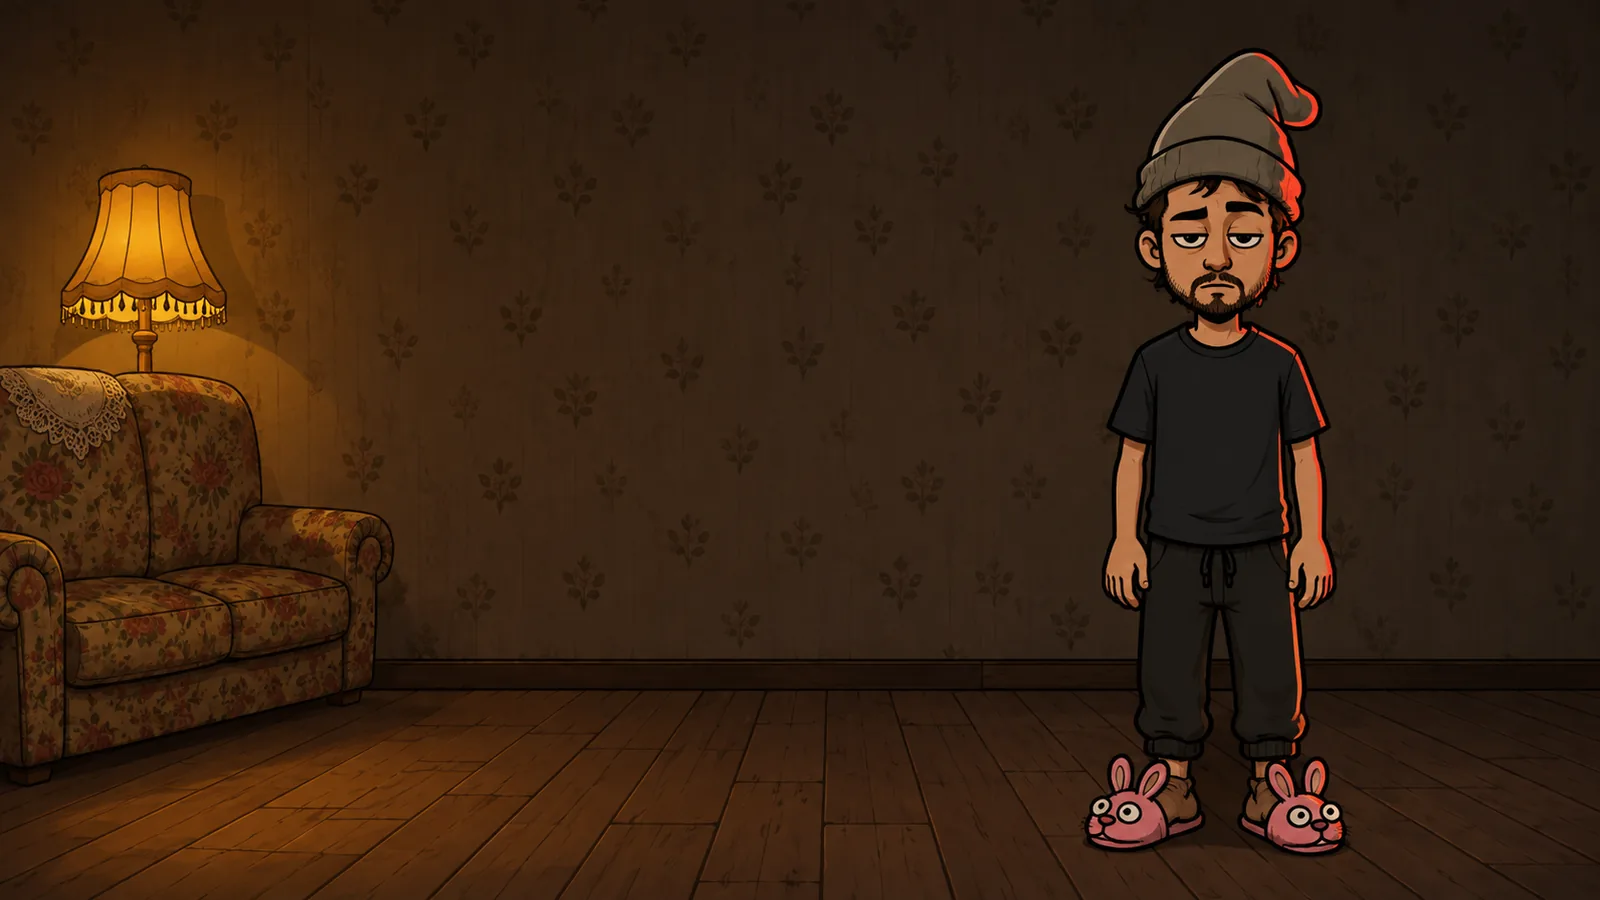
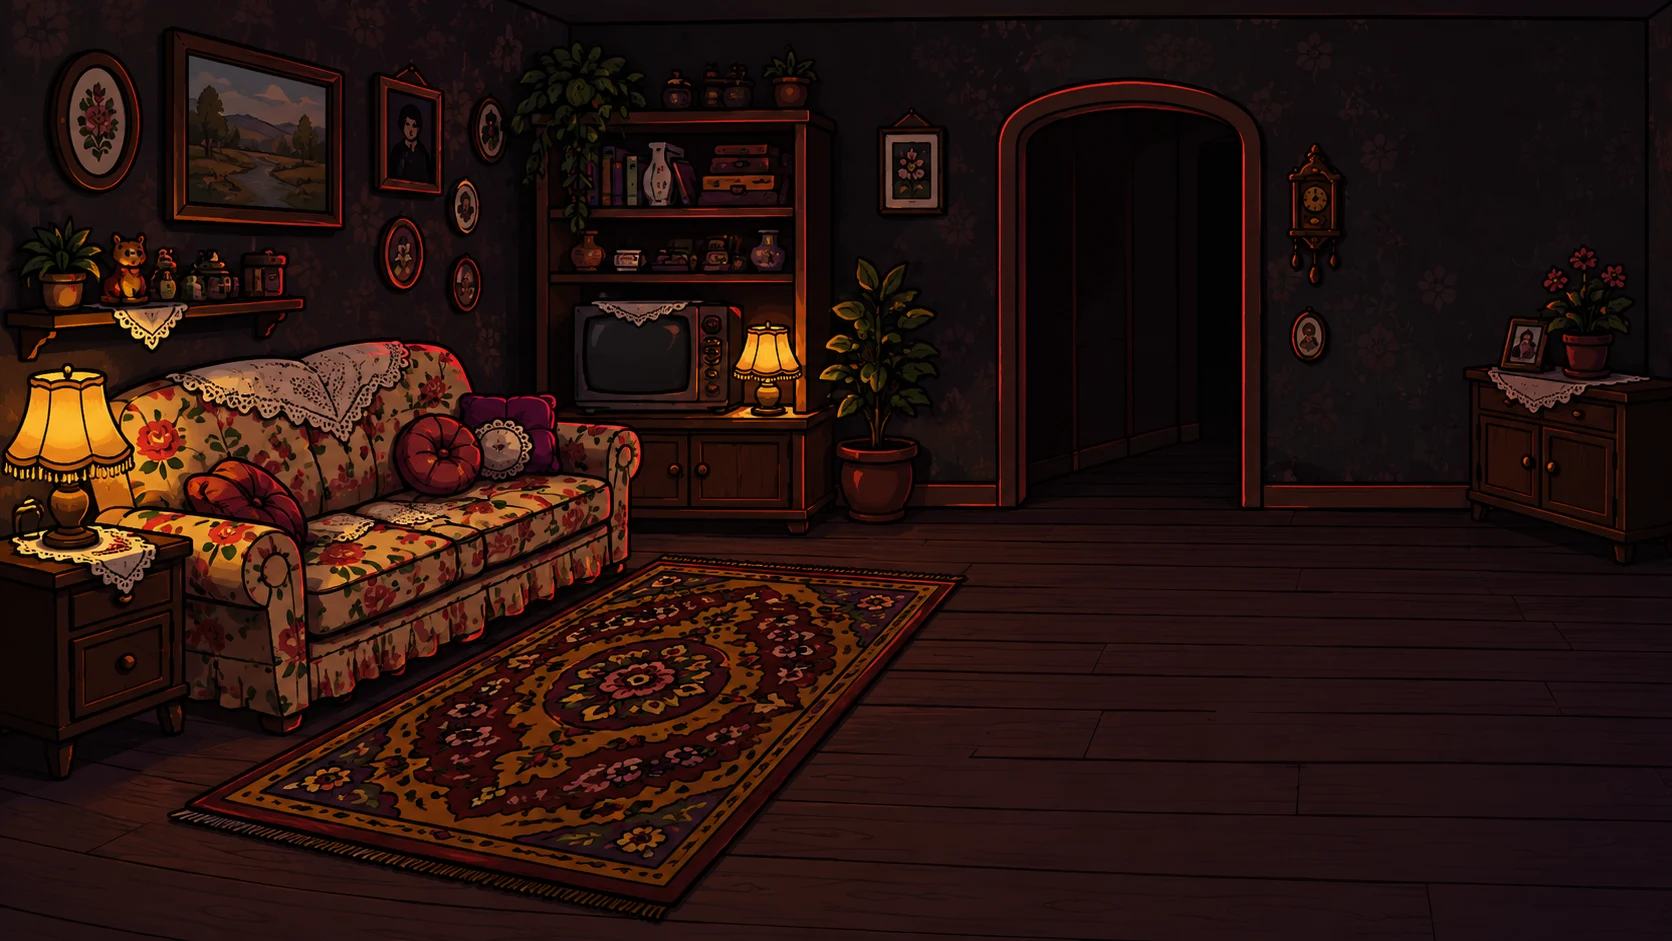
Add clean bunker/couch backgrounds, free map building placement, no-store API cache
- room-1-couch.webp and room-6-bunker.webp replaced with clean (no baked-in
  character) versions per the v2 rework, and bunker now has a roomImg
  (previously had none, so its room screen fell back to the square location
  icon). Character now composites via the shared transparent layer added
  in the previous commit.
- Map territory buildings can now be freely positioned by the player: new
  POST /api/map/place (per-building-type {x,y}%, visual only — economic
  effect still comes from mapBuildings level, not position), wired through
  createFreshUser, /api/user, /api/restore (dedicated validation block since
  {x,y} objects don't fit the generic RESTORE_MAP_FIELDS number/bool-only
  loop), and saveToCloud(). Client: "📍 Розмістити на карті" button per
  built structure enters a tap-to-place mode on the map image, renders
  markers via background-image (avoids colliding with the existing
  ".map-img-wrap img" full-width rule used for the map background itself).
- Added `Cache-Control: no-store` to all /api/* responses — investigating a
  report that a player's set nickname wasn't showing in the leaderboard,
  suspected stale GET caching in Telegram's embedded WebView since server
  logic (displayName()) was already verified correct.

diff --git a/server.js b/server.js
@@ -37,6 +37,10 @@ const app = express();
 app.use(compression()); // HTML сторінки ~370КБ без стиснення — gzip ріже це до ~85КБ
 app.use(express.json());
 app.use('/images', express.static(path.join(__dirname, 'public/images')));
+// API завжди повертає живі дані (баланс/лідерборд/нік і т.д.) — без цього Telegram
+// WebView міг закешувати GET-відповідь (напр. лідерборд) і показувати застарілий
+// нік/цифри навіть після того, як гравець щось змінив.
+app.use('/api', (req, res, next) => { res.set('Cache-Control', 'no-store, no-cache, must-revalidate'); next(); });
 
 let BOT_USERNAME = 'YourBot';
 let HTML_CONTENT = ''; // формується після старту (щоб зашити username бота в реферальні посилання)
@@ -990,7 +994,7 @@ const LOCATIONS = [
     { level: 3, name: 'Балканська хатинка', img: '/images/location-3-balkan.webp', roomImg: '/images/room-3-balkan.webp', maxEnergy: 220 },
     { level: 4, name: 'Човен на Тисі', img: '/images/location-3-boat.webp', maxEnergy: 300 },
     { level: 5, name: 'Закордон (Гуманітарний коридор)', emoji: '🛂', img: '/images/location-5-abroad.webp', roomImg: '/images/room-5-abroad.webp', maxEnergy: 400 },
-    { level: 6, name: 'Президентський бункер', emoji: '🏛', img: '/images/location-6-bunker.webp', maxEnergy: 500 },
+    { level: 6, name: 'Президентський бункер', emoji: '🏛', img: '/images/location-6-bunker.webp', roomImg: '/images/room-6-bunker.webp', maxEnergy: 500 },
 ];
 
 // Компаньйони — пасивні мультиплікатори, екіпірується один одночасно.
@@ -1430,6 +1434,7 @@ function createFreshUser(id, name) {
         adConsent: null,            // null — ще не питали, true/false — відповів
         redeemedPromos: [],         // одноразові промокоди (once:true), щоб не активувати вдруге
         mapBuildings: { tower: 0, hideout: 0, cache: 0 }, // карта території: рівень 0 = не збудовано
+        mapPlacements: { tower: null, hideout: null, cache: null }, // {x,y} у % — де гравець поставив іконку на карті (null = ще не розміщено)
         trophies: [],               // 🕵 за розкритого стукача + по одному за кожного боса
         // --- Медкомісія та інспектори ---
         medcomSession: null,        // { noticeId, cards, rerolls } — активна роздача карток
@@ -2795,6 +2800,7 @@ app.get('/api/user', requireTelegramAuth, (req, res) => {
         investigationPending: (user.snitchedBy || []).some((e) => !e.investigated),
         trophies: user.trophies || [],
         mapBuildings: user.mapBuildings,
+        mapPlacements: user.mapPlacements || { tower: null, hideout: null, cache: null },
         nickname: user.nickname,
         nextStep: nextStep(user),
         medcomStats: user.medcomStats,
@@ -2986,6 +2992,18 @@ app.post('/api/restore', requireTelegramAuth, (req, res) => {
     if (typeof backup.nickname === 'string' && backup.nickname && !user.nickname) {
         const candidate = backup.nickname.trim();
         if (!validateNickname(candidate, user.id)) user.nickname = candidate;
+    }
+    // Позиції іконок на карті — {x,y} об'єкти, не число/bool, тому окремо від
+    // RESTORE_MAP_FIELDS, і лише за відомими ключами будівель.
+    if (backup.mapPlacements && typeof backup.mapPlacements === 'object') {
+        if (!user.mapPlacements) user.mapPlacements = { tower: null, hideout: null, cache: null };
+        for (const key of Object.keys(user.mapPlacements)) {
+            const p = backup.mapPlacements[key];
+            if (p && typeof p === 'object' && typeof p.x === 'number' && typeof p.y === 'number'
+                && p.x >= 0 && p.x <= 100 && p.y >= 0 && p.y <= 100) {
+                user.mapPlacements[key] = { x: p.x, y: p.y };
+            }
+        }
     }
 
     // Чати ОСББ живуть лише на диску Render, а він не переживає редеплой: гравець
@@ -3550,6 +3568,25 @@ app.post('/api/map/build', requireTelegramAuth, (req, res) => {
         buildingId: building.id, mapBuildings: user.mapBuildings,
         ...storageSnapshot(user),
     });
+});
+
+// Вільне розміщення іконки збудованої споруди на фоні карти — суто візуальне
+// (не впливає на ефекти, ті йдуть від рівня в mapBuildings). Одна позиція на
+// тип будівлі, гравець може перетягнути/переставити будь-коли безкоштовно.
+app.post('/api/map/place', requireTelegramAuth, (req, res) => {
+    const user = getUser(req.telegramUser.id, req.telegramUser.first_name);
+    const building = MAP_BUILDING_BY_ID[req.body.buildingId];
+    if (!building) return res.status(400).json({ error: 'Невідома будівля' });
+    if (!mapBuildingLevel(user, building.id)) {
+        return res.json({ success: false, message: 'Спочатку побудуй споруду' });
+    }
+    const x = Number(req.body.x), y = Number(req.body.y);
+    if (!Number.isFinite(x) || !Number.isFinite(y) || x < 0 || x > 100 || y < 0 || y > 100) {
+        return res.status(400).json({ error: 'Невірні координати' });
+    }
+    if (!user.mapPlacements) user.mapPlacements = { tower: null, hideout: null, cache: null };
+    user.mapPlacements[building.id] = { x, y };
+    res.json({ success: true, mapPlacements: user.mapPlacements });
 });
 
 // ---- Багаторівневі апгрейди магазину (ціна росте з кожним рівнем) ----
@@ -5408,6 +5445,10 @@ function buildHtml(botUsername) {
         .map-img-wrap { position: relative; width: 100%; border-radius: 12px; overflow: hidden; margin-bottom: 14px; }
         .map-img-wrap img { width: 100%; display: block; }
         .map-hotspot { position: absolute; width: auto; margin-bottom: 0; transform: translate(-50%, -50%); background: rgba(10,8,5,0.7); border: 1px solid var(--gold); border-radius: 8px; padding: 4px 8px; font-size: 11px; color: #fff; cursor: pointer; white-space: nowrap; }
+        /* Іконки поставлених гравцем споруд — background-image, не <img>, щоб не
+           зачепити правило ".map-img-wrap img { width:100% }" вище (те для фону карти). */
+        .map-marker { position: absolute; width: 13%; aspect-ratio: 1; transform: translate(-50%, -50%); background-size: contain; background-repeat: no-repeat; background-position: center; filter: drop-shadow(0 2px 5px rgba(0,0,0,0.7)); z-index: 4; }
+        .map-img-wrap.placing { cursor: crosshair; outline: 2px dashed var(--gold); outline-offset: 2px; }
         .defer-card { background: rgba(255,255,255,0.04); border: 1px solid #3a2f22; border-radius: 10px; padding: 11px 12px; margin-bottom: 9px; }
         .defer-card.locked { opacity: 0.55; }
         .defer-head { display: flex; align-items: center; gap: 9px; }
@@ -6277,13 +6318,15 @@ function buildHtml(botUsername) {
                 Орієнтири на карті ведуть до вилазок. Будуй споруди за деревину/металобрухт/цеглу —
                 вони реально знижують ризики.
             </p>
-            <div class="map-img-wrap">
+            <div id="map-place-hint" class="hidden" style="text-align:center; font-size:12px; color:var(--gold); margin-bottom:8px;">📍 Тапни по карті, щоб поставити споруду</div>
+            <div class="map-img-wrap" id="map-img-wrap" onclick="onMapImgClick(event)">
                 <img src="/images/map-city-bg.webp" alt="">
                 <button class="map-hotspot" style="top:28%; left:60%;" onclick="jumpToExpedition('market')">🏪 Ринок</button>
                 <button class="map-hotspot" style="top:45%; left:20%;" onclick="jumpToExpedition('warehouse')">🏭 Склад</button>
                 <button class="map-hotspot" style="top:72%; left:30%;" onclick="jumpToExpedition('ruins')">🪚 Руїни</button>
                 <button class="map-hotspot" style="top:55%; left:85%;" onclick="jumpToExpedition('tcc_office')">🏢 ТЦК</button>
                 <button class="map-hotspot" style="top:92%; left:45%;" onclick="jumpToExpedition('border')">🌲 Кордон</button>
+                <div id="map-markers"></div>
             </div>
             <div id="map-buildings-list"></div>
         </div>
@@ -6513,6 +6556,7 @@ function buildHtml(botUsername) {
             expeditions: [], expeditionSlots: 1, skills: {}, skillPoints: 0,
             reputation: {}, mykolaCoverUsed: false, buyAmount: 1,
             mapBuildings: { tower: 0, hideout: 0, cache: 0 },
+            mapPlacements: { tower: null, hideout: null, cache: null },
             league: null, seasonTitle: null, seasonEndsAt: 0, pendingWarCrate: 0,
             adAirdropMult: 1, adConsentCount: 0,
         };
@@ -8069,6 +8113,7 @@ function buildHtml(botUsername) {
                 inspectorStats: state.inspectorStats, pendingWarCrate: state.pendingWarCrate,
                 league: state.league ? state.league.id : 0, seasonTitle: state.seasonTitle,
                 mapBuildings: state.mapBuildings,
+                mapPlacements: state.mapPlacements,
                 upgTiersUnlocked: state.upgTiersUnlocked,
                 nickname: state.nickname,
             };
@@ -8165,6 +8210,7 @@ function buildHtml(botUsername) {
                 state.investigationPending = !!data.investigationPending;
                 state.trophies = data.trophies || [];
                 state.mapBuildings = data.mapBuildings || { tower: 0, hideout: 0, cache: 0 };
+                state.mapPlacements = data.mapPlacements || { tower: null, hideout: null, cache: null };
                 state.nickname = data.nickname || null;
                 document.getElementById('username').innerText = state.nickname || user.first_name;
                 if (data.nextStep) renderNextStep(data.nextStep);
@@ -8594,10 +8640,54 @@ function buildHtml(botUsername) {
         window.openMap = () => {
             document.getElementById('map-screen').classList.remove('hidden');
             renderMapBuildings();
+            renderMapMarkers();
         };
         window.closeMap = () => {
             document.getElementById('map-screen').classList.add('hidden');
+            placingBuildingId = null;
+            document.getElementById('map-img-wrap').classList.remove('placing');
+            document.getElementById('map-place-hint').classList.add('hidden');
         };
+
+        // Вільне розміщення: гравець сам обирає, де на карті стоїть іконка вже
+        // збудованої споруди. Одна позиція на тип будівлі, суто візуально — ефекти
+        // йдуть від рівня в mapBuildings, не від координат.
+        let placingBuildingId = null;
+        window.startPlacingBuilding = (buildingId) => {
+            placingBuildingId = buildingId;
+            document.getElementById('map-img-wrap').classList.add('placing');
+            document.getElementById('map-place-hint').classList.remove('hidden');
+        };
+        window.onMapImgClick = async (evt) => {
+            if (!placingBuildingId) return;
+            const wrap = document.getElementById('map-img-wrap');
+            const rect = wrap.getBoundingClientRect();
+            const x = Math.max(0, Math.min(100, ((evt.clientX - rect.left) / rect.width) * 100));
+            const y = Math.max(0, Math.min(100, ((evt.clientY - rect.top) / rect.height) * 100));
+            const buildingId = placingBuildingId;
+            placingBuildingId = null;
+            wrap.classList.remove('placing');
+            document.getElementById('map-place-hint').classList.add('hidden');
+            const res = await apiFetch('/api/map/place', {
+                method: 'POST', headers: { 'Content-Type': 'application/json' },
+                body: JSON.stringify({ id: user.id, buildingId, x, y })
+            });
+            const data = await res.json();
+            if (!data.success) return tg.showAlert(data.message || 'Помилка');
+            state.mapPlacements = data.mapPlacements;
+            tg.HapticFeedback.notificationOccurred('success');
+            renderMapMarkers();
+        };
+        function renderMapMarkers() {
+            const box = document.getElementById('map-markers');
+            if (!box) return;
+            box.innerHTML = MAP_BUILDINGS.map(b => {
+                const p = state.mapPlacements && state.mapPlacements[b.id];
+                const level = (state.mapBuildings && state.mapBuildings[b.id]) || 0;
+                if (!p || !level) return '';
+                return '<div class="map-marker" style="top:' + p.y + '%; left:' + p.x + '%; background-image:url(\\'' + b.img + '\\');" title="' + esc(b.name) + '"></div>';
+            }).join('');
+        }
 
         // Орієнтир на карті веде прямо до відповідної вилазки — це і є прив'язка
         // карти до вилазок, яку просив користувач.
@@ -8628,6 +8718,7 @@ function buildHtml(botUsername) {
                         ? '<div class="recipe-cost"><span class="recipe-ing ok">Максимальний рівень</span></div>'
                         : '<div class="recipe-cost"><span class="recipe-ing">' + costStr + '</span></div>' +
                           '<button onclick="buildMapBuilding(\\'' + b.id + '\\')">🔨 ' + (level > 0 ? 'Покращити' : 'Побудувати') + '</button>') +
+                    (level > 0 ? '<button onclick="startPlacingBuilding(\\'' + b.id + '\\')">📍 Розмістити на карті</button>' : '') +
                     '</div>';
             }).join('');
         }
@@ -8644,6 +8735,7 @@ function buildHtml(botUsername) {
             state.storageUsed = data.used;
             tg.HapticFeedback.notificationOccurred('success');
             renderMapBuildings();
+            renderMapMarkers();
         };
 
         // ==========================================
